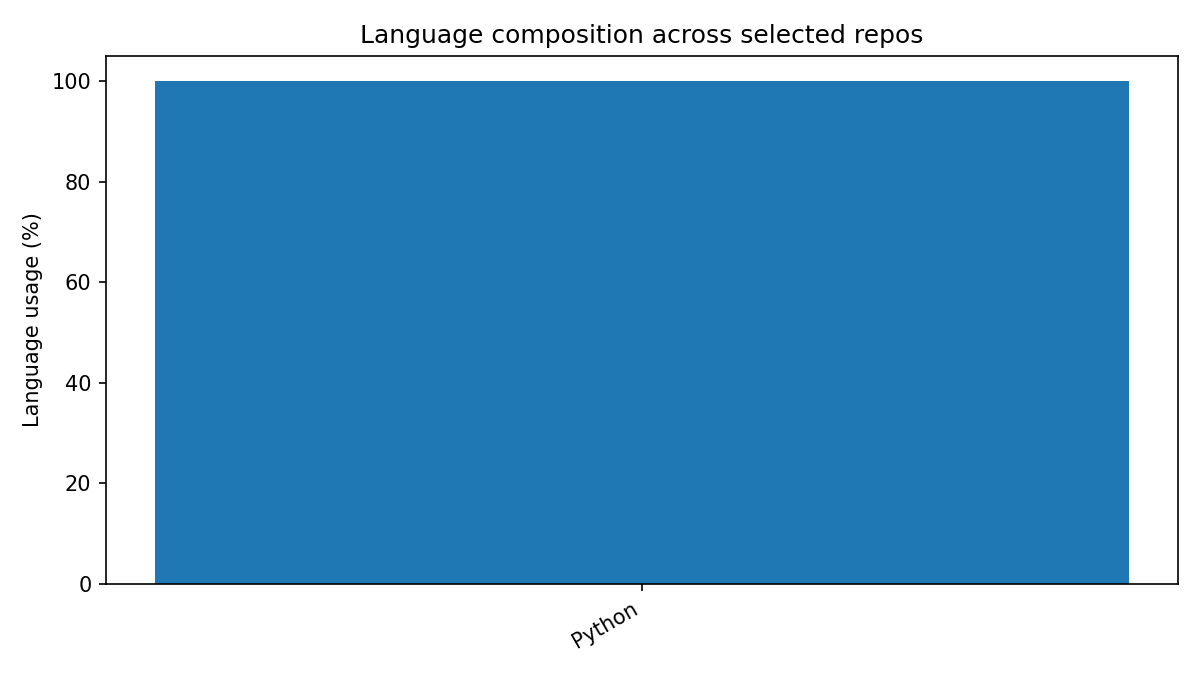
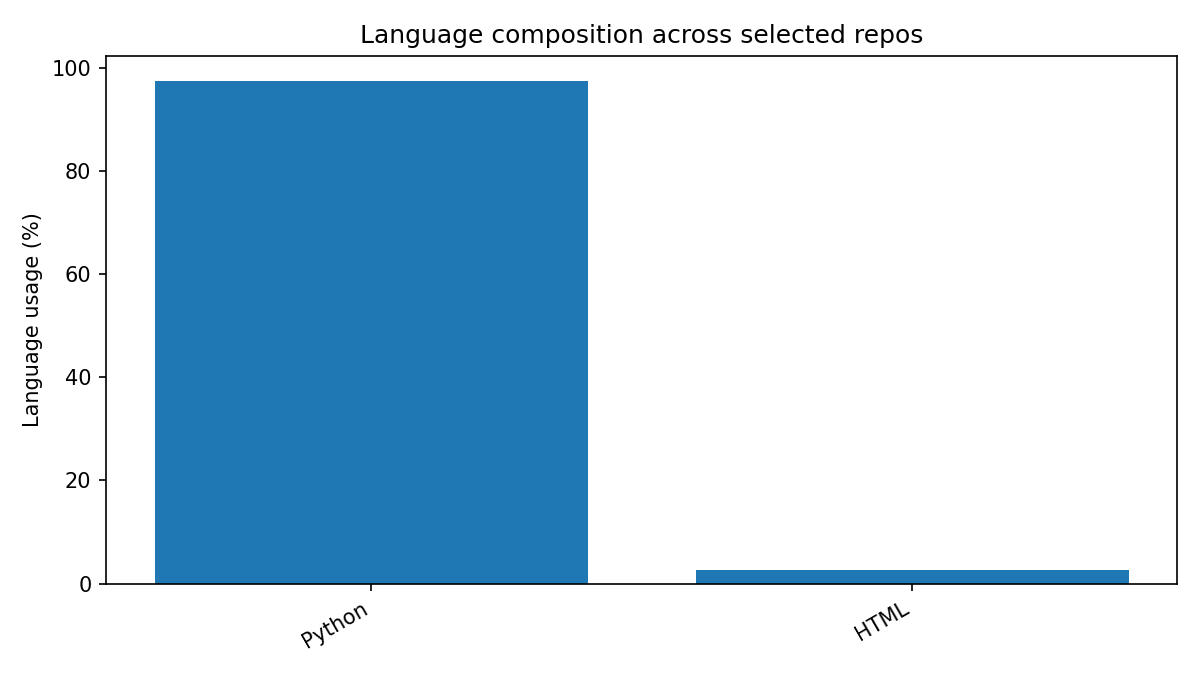
Sentry initialization

diff --git a/reports/report.html b/reports/report.html
@@ -4,7 +4,7 @@
 </head><body>
 <h1>Repo Radar — MVP Report</h1>
 <h2>LLM overview</h2>
-<p>Notable trends / risks<br>- Visibility gap: key metrics (issues opened/closed, backlog delta, CVEs, Sentry error rate) are TBD — leadership lacks actionable telemetry for last 30 days.<br>- Single-language codebase (Python-only) concentrates technical and dependency risk; unresolved CVEs would disproportionately impact the service.<br>- Potential operational risk: unknown error rate and backlog state could mask regressions or delivery bottlenecks.<br><br>Recommended actions<br>- Instrument and report: populate issues, backlog Δ, CVE status, and Sentry/error metrics on a recurring cadence (weekly).<br>- Run immediate dependency and security scans (SCA) and remediate any high CVEs; track fix ETA.<br>- Triage backlog and set SLAs for critical/bug fixes; add alerting for error-rate regressions to prevent production impact.</p>
+<p>Window: last 30 days — repo: REPO-RADAR/repo-radar.<br><br>Notable trends/risks<br>- Key health indicators are missing (issues opened/closed, backlog Δ, high CVEs, Sentry error rate), limiting leadership visibility and risk assessment.<br>- Codebase highly concentrated in Python (97.4%) — simplifies staffing but increases dependency/CVE blast radius if not actively managed.<br>- Unknown backlog and error telemetry create delivery and production-risk blind spots that could hide regressions or security issues.<br><br>Recommended actions<br>- Immediately populate missing metrics (issues open/closed, backlog Δ, CVE severity list, Sentry error rate) and share within 48–72 hours.<br>- Run a dependency/CVE scan and prioritize remediation or mitigations for any high-severity findings.<br>- Stand up a weekly dashboard and assign an owner for metric upkeep and triage to restore continuous visibility.</p>
 <h2>Languages (%)</h2>
 <img src="languages.png" alt="Languages bar chart">
 </body></html>

diff --git a/src/repo_radar/monitoring/sentry_sdk_init.py b/src/repo_radar/monitoring/sentry_sdk_init.py
@@ -1,0 +1,13 @@
+import os, sentry_sdk
+def init():
+    dsn = os.getenv("SENTRY_DSN")
+    if not dsn: 
+        return
+    sentry_sdk.init(
+        dsn=dsn,
+        environment=os.getenv("SENTRY_ENVIRONMENT","dev"),
+        release=os.getenv("SENTRY_RELEASE"),
+        traces_sample_rate=float(os.getenv("SENTRY_TRACES_SAMPLE_RATE","0")),
+        profiles_sample_rate=float(os.getenv("SENTRY_PROFILES_SAMPLE_RATE","0")),
+        send_default_pii=False,
+    )
